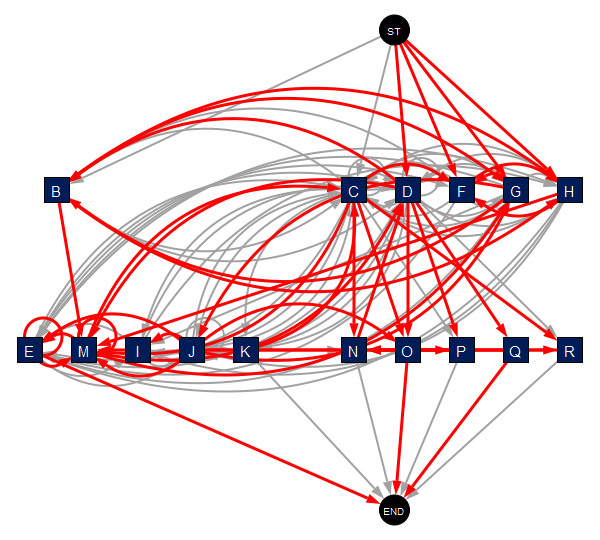
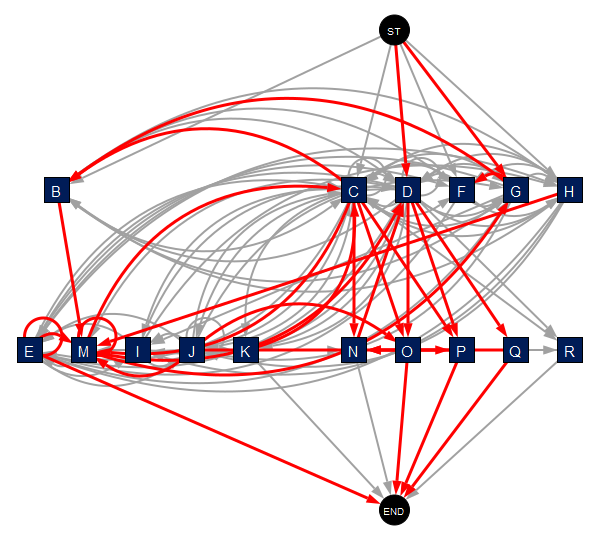
update graph view

diff --git a/proj/templates/test.html b/proj/templates/test.html
@@ -197,7 +197,7 @@
 <!--                    </div>-->
                     <div class="card" style="margin-bottom:5px;">
                     <div class="header bg-black" style="padding-top: 15px; padding-bottom: 15px;" align="center">
-                        <h2><strong>CLUSTER 5,7</strong></h2>
+                        <h2><strong>CLUSTER 3,4</strong></h2>
                     </div>
                         <div class="body" style="padding: 15px;">
                             <div  class="" align="center"><img src="../static/graphs/g2.png" alt="" width='75%'> </div>

diff --git a/proj/controllers/graphsconstr.py b/proj/controllers/graphsconstr.py
@@ -93,26 +93,26 @@ def view_config(g, vertices, edges_ids):
 
 
 def createimgtrans(c1, c2, nome):
+    dupla = [5, 7]
     result = default.pdirectory[default.datafilter['arq']].copy()
     result['Sequence'] = result['Sequence'].apply(lambda x: 'Start_Process ' + x + ' End_Process')
     vertices, verts = get_vertices(result)
 
     # comparando varios clusters:
-    resconcat = pd.concat([result[result.cluster == 5], result[result.cluster == 7]], axis=0, ignore_index=True)
+    resconcat = pd.concat([result[result.cluster == dupla[0]], result[result.cluster == dupla[1]]], axis=0,
+                          ignore_index=True)
+    print()
     if c1 == '0':
         _, edges_ids2 = get_edges(resconcat, verts, vertices)
         edges_labels, edges_ids = get_edges(result[result.cluster == int(c1)], verts, vertices)
+        diffes = list(set(edges_ids) - set(edges_ids2))
     else:
-        _, edges_ids2 = get_edges(result[result.cluster == int(c1)], verts, vertices)
+        _, edges_ids2 = get_edges(result[result.cluster == int(c2)], verts, vertices)
         edges_labels, edges_ids = get_edges(resconcat, verts, vertices)
-
-
-    # recebendo as diferenças entre o cluster c1 e o cluster c2. Lista do que tem em c1 que não tem em c2
-    diffes = [(get_key(i, vertices), get_key(j, vertices)) for i, j in
-              set(get_diffs(result, int(c1), 3, verts, vertices)+get_diffs(result, int(c1), 4, verts, vertices))]
+        diffes = list(set(edges_ids) - set(edges_ids2))  # recebendo as diferenças do que tem em c1 e não em c2.
+    print(diffes)
 
     _, edlog_ids = get_edges(result, verts, vertices)
-    edges_labels, edges_ids = get_edges(result[result.cluster == int(c1)], verts, vertices)
 
     # order_edges(edges_ids, vertices, edges_labels)
     ord_edges = list(set(edlog_ids) - set(edges_ids) - set(diffes)) + list(set(edges_ids) - set(diffes)) + diffes
@@ -128,8 +128,6 @@ def createimgtrans(c1, c2, nome):
     sizev, sizel, shapev, layout = view_config(g, vertices, edges_ids)
     vsub = {vertices[k]: verts[k] for k in vertices.keys()}
 
-
-    g.vs[get_key('END', vertices)]["coordinates"] = (3, 4)
     plot(g, layout=layout, vertex_shape=shapev, vertex_label_color="white", vertex_size=sizev, edge_width=edwitdh,
          margin=[30, 30, 30, 30],
          vertex_label_size=sizel, bbox=(600, 540), target='proj/static/graphs/' + nome + '.png')
@@ -143,7 +141,8 @@ def get_diff_cluster(vertices, edges_ids, edges_ids2):
     return [i for i in dif2 if i not in dif1 and vertices[i] != 'ST' and vertices[i] != 'END']
 
 
-def createimgativs(c1, c2, nome): #c2 são dois clusters
+def createimgativs(c1, c2, nome):  # c2 são dois clusters
+    dupla = [5, 7]
     result = default.pdirectory[default.datafilter['arq']].copy()
     result['Sequence'] = result['Sequence'].apply(lambda x: 'Start_Process ' + x + ' End_Process')
     vertices, verts = get_vertices(result)
@@ -151,12 +150,13 @@ def createimgativs(c1, c2, nome): #c2 são dois clusters
 
     print(vertices)
     # comparando varios clusters:
-    resconcat = pd.concat([result[result.cluster == 5], result[result.cluster == 7]], axis=0, ignore_index=True)
+    resconcat = pd.concat([result[result.cluster == dupla[0]], result[result.cluster == dupla[1]]], axis=0,
+                          ignore_index=True)
     if c1 == '0':
         _, edges_ids2 = get_edges(resconcat, verts, vertices)
         edges_labels, edges_ids = get_edges(result[result.cluster == int(c1)], verts, vertices)
     else:
-        _, edges_ids2 = get_edges(result[result.cluster == int(c1)], verts, vertices)
+        _, edges_ids2 = get_edges(result[result.cluster == int(c2)], verts, vertices)
         edges_labels, edges_ids = get_edges(resconcat, verts, vertices)
 
     # order_edges(edges_ids, vertices, edges_labels)
@@ -173,6 +173,7 @@ def createimgativs(c1, c2, nome): #c2 são dois clusters
     vsub = {vertices[k]: verts[k] for k in vertices.keys()}
     diffclus = [vertices[k] for k in diffclus]
     plot(g, layout=layout, vertex_shape=shapev, vertex_label_color=lcolor, vertex_size=sizev, edge_width=2,
-         margin=[30, 30, 30, 30], vertex_label_size=sizel, vertex_color=atcolor, bbox=(600, 540), keep_aspect_ratio=False,
+         margin=[30, 30, 30, 30], vertex_label_size=sizel, vertex_color=atcolor, bbox=(600, 540),
+         keep_aspect_ratio=False,
          target='proj/static/graphs/' + nome + '.png')
     return vsub, diffclus
